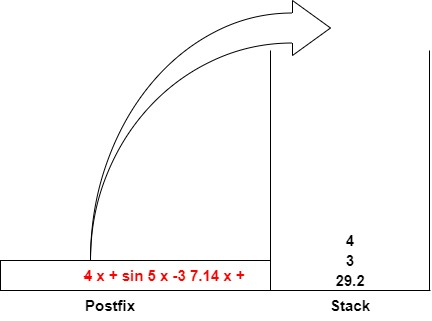
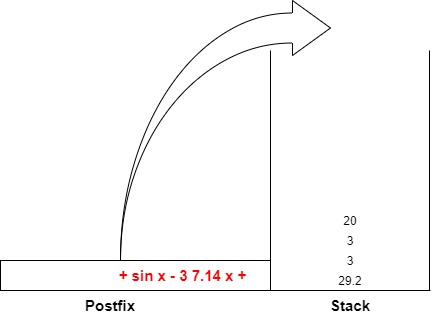
fix bug: push number at ')' and gif computePostfix

diff --git a/src/logic/calculate.js b/src/logic/calculate.js
@@ -35,6 +35,8 @@ function Infix2Postfix(expression) {
             if (char === "(") {
                 stack.push("(");
             } else {
+                postfix.push(number);
+                number = "";
                 for (let i = stack.length; i > index_open; i--) {
                     postfix.push(stack[i] === "(" ? "" : stack.pop());
                 }
@@ -44,6 +46,7 @@ function Infix2Postfix(expression) {
         }
     }
     postfix.push(number);
+    postfix = postfix.filter(Boolean);
     for (let i = stack.length; i > 0; i--) {
         postfix.push(stack.pop());
     }
@@ -93,7 +96,7 @@ export default function calculate(stateObj, btn) {
         stateObj.expression = "0";
     } else if (btn === "=") {
         console.log("Button = is clicked");
-        let postfixExpression = Infix2Postfix("5.2+4x6-3xsin3+4x5)+3x7.14");
+        let postfixExpression = Infix2Postfix("5.2+4x6-3xsin(3+4x5)+3x7.14");
         // let postfixExpression = Infix2Postfix(stateObj.expression);
         let result = computePostfix(postfixExpression);
         stateObj.expression = "=";

diff --git a/README.md b/README.md
@@ -74,6 +74,9 @@ else {
 ### Priority of operators
 
 ### Process function
+![Alt Text](https://raw.githubusercontent.com/hnbandomachi/calculator/main/img/computePostfixGif.gif)
+
+
 ```javascript
 function computePostfix(expression) {
     let stack = [];
